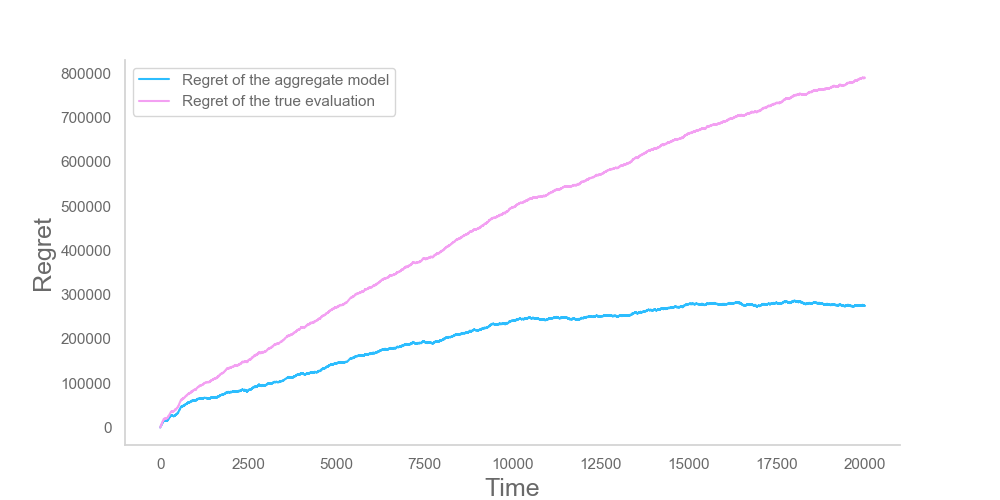
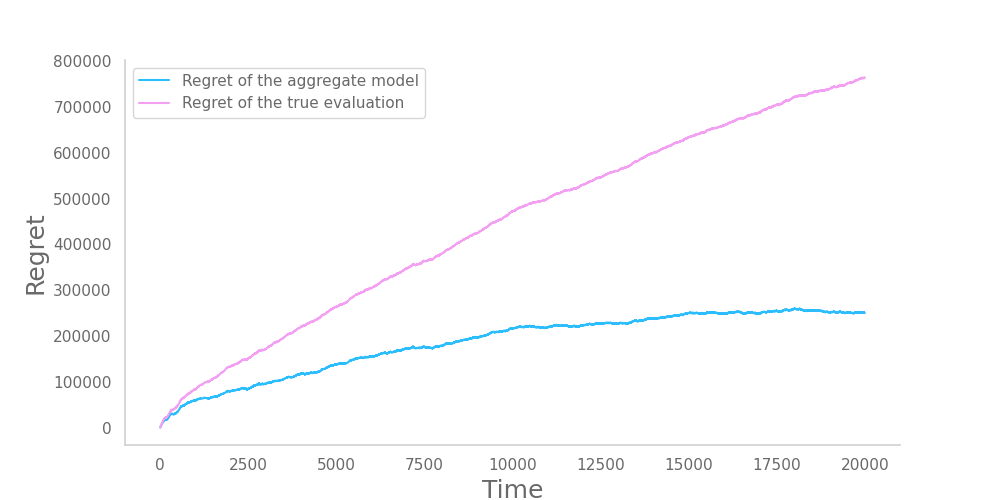
keep daily price part 5 new version

diff --git a/project/part_7/Testing_Env_7.py b/project/part_7/Testing_Env_7.py
@@ -24,13 +24,11 @@ def execute_experiment(args):
     index = args['index']
     env = args['environment']
     mch = args['multiclasshandler']
-    fix_arm = args['fix_arm']
 
     budget_allocator = BudgetAllocator(multi_class_handler=mch,
                                        n_arms_pricing=pricing_arms,
                                        n_arms_advertising=10,
-                                       enable_pricing=enable_pricing,
-                                       fix_arm=fix_arm)
+                                       enable_pricing=enable_pricing)
 
     current_day, done = env.reset()
 
@@ -94,36 +92,35 @@ if __name__ == '__main__':
     # plt.legend()
     # plt.show()
 
-    for arm_i in range(pricing_arms):
-        n_experiments = 10  # the number is small to do a raw test, otherwise set it to 1000
-        agnostic_regret_per_experiment = []  # collect all the regrets achieved
-        regret_per_experiment = []
-        args = [{'environment': copy.deepcopy(base_env), 'index': idx, 'multiclasshandler': mch, 'fix_arm': arm_i}
-                for idx in range(n_experiments)]  # create arguments for the experiment
+    n_experiments = 10  # the number is small to do a raw test, otherwise set it to 1000
+    agnostic_regret_per_experiment = []  # collect all the regrets achieved
+    regret_per_experiment = []
+    args = [{'environment': copy.deepcopy(base_env), 'index': idx, 'multiclasshandler': mch}
+            for idx in range(n_experiments)]  # create arguments for the experiment
 
-        with Pool(processes=1) as pool:  # multiprocessing.cpu_count()
-            results = pool.map(execute_experiment, args, chunksize=1)
+    with Pool(processes=1) as pool:  # multiprocessing.cpu_count()
+        results = pool.map(execute_experiment, args, chunksize=1)
 
-        for result in results:
-            agnostic_regret_per_experiment.append(result['agnostic_regret'])
-            regret_per_experiment.append(result['regret'])
+    for result in results:
+        agnostic_regret_per_experiment.append(result['agnostic_regret'])
+        regret_per_experiment.append(result['regret'])
 
-        title = ' & Pricing' if enable_pricing else ''
-        title = f'Testing_Env_7 - ARM CANDIDATE: {arm_i} - Advertising{title}'
-        plt.title(title, fontsize=20)
+    title = ' & Pricing' if enable_pricing else ''
+    title = f'Testing_Env_7 - Advertising{title}'
+    plt.title(title, fontsize=20)
 
-        for agnostic_regret in agnostic_regret_per_experiment:
-            plt.plot(np.cumsum(agnostic_regret), alpha=0.4, c='C2')
-        plt.plot(np.cumsum(np.mean(agnostic_regret_per_experiment, axis=0)),
-                 c='C2',
-                 label='Regret (Advertising <=!=> Pricing)')
+    for agnostic_regret in agnostic_regret_per_experiment:
+        plt.plot(np.cumsum(agnostic_regret), alpha=0.4, c='C2')
+    plt.plot(np.cumsum(np.mean(agnostic_regret_per_experiment, axis=0)),
+             c='C2',
+             label='Regret (Advertising <=!=> Pricing)')
 
-        for regret in regret_per_experiment:
-            plt.plot(np.cumsum(regret), alpha=0.4, c='C3')
-        plt.plot(np.cumsum(np.mean(regret_per_experiment, axis=0)), c='C3', label='Regret (Advertising <==> Pricing)')
-        plt.xlabel('Time')
-        plt.ylabel('Regret')
-        plt.legend()
+    for regret in regret_per_experiment:
+        plt.plot(np.cumsum(regret), alpha=0.4, c='C3')
+    plt.plot(np.cumsum(np.mean(regret_per_experiment, axis=0)), c='C3', label='Regret (Advertising <==> Pricing)')
+    plt.xlabel('Time')
+    plt.ylabel('Regret')
+    plt.legend()
 
-        plt.savefig('other_files/' + title + '.png')
-        plt.show()
+    plt.savefig('other_files/' + title + '.png')
+    plt.show()

diff --git a/project/part_5/Testing_Env_5.py b/project/part_5/Testing_Env_5.py
@@ -12,7 +12,7 @@ from project.dia_pckg.User import User
 from project.dia_pckg.plot_style.cb91visuals import *
 from project.part_4.MultiClassHandler import MultiClassHandler
 from project.part_4.SWTS_Learner import SWTS_Learner
-from project.part_5.CampaignScheduler_5 import CampaignScheduler_5
+from project.part_5.CampaignScheduler import CampaignScheduler
 from project.part_5.Env_5 import Env_5
 
 np.random.seed(0)
@@ -35,38 +35,13 @@ def execute_experiment(args):
         if new_week:  # in this case we can generate new contexts and new learners
             campaign_scheduler.context_update()
 
-        if keep_daily_price:
-            user_elegant = User(class_name='elegant')
-            user_casual = User(class_name='casual')
-            user_sport = User(class_name='sports')
+        user = User(random=True)
 
-            if new_day:
-                pulled_arm_elegant = campaign_scheduler.pull_arm_from_user(user_elegant)
-                pulled_arm_casual = campaign_scheduler.pull_arm_from_user(user_casual)
-                pulled_arm_sport = campaign_scheduler.pull_arm_from_user(user_sport)
+        pulled_arm = campaign_scheduler.pull_arm_from_user(user, keep_daily_price, new_day)
 
-            new_week, reward, current_date, new_day, done, opt_revenue = env.round(pulled_arm_elegant, user_elegant)
-            campaign_scheduler.update(user_elegant, pulled_arm_elegant, reward)
-            optimal_revenues = np.append(optimal_revenues, opt_revenue)
-
-            new_week, reward, current_date, new_day, done, opt_revenue = env.round(pulled_arm_casual, user_casual)
-            campaign_scheduler.update(user_casual, pulled_arm_casual, reward)
-            optimal_revenues = np.append(optimal_revenues, opt_revenue)
-
-            new_week, reward, current_date, new_day, done, opt_revenue = env.round(pulled_arm_sport, user_sport)
-            campaign_scheduler.update(user_sport, pulled_arm_sport, reward)
-            optimal_revenues = np.append(optimal_revenues, opt_revenue)
-
-        else:
-            user = User(random=True)
-
-            pulled_arm = campaign_scheduler.pull_arm_from_user(user)
-
-            new_week, reward, current_date, new_day, done, opt_revenue = env.round(pulled_arm, user)
-            campaign_scheduler.update(user, pulled_arm, reward)
-            optimal_revenues = np.append(optimal_revenues, opt_revenue)
-
-        
+        new_week, reward, current_date, new_day, done, opt_revenue = env.round(pulled_arm, user)
+        campaign_scheduler.update(user, pulled_arm, reward)
+        optimal_revenues = np.append(optimal_revenues, opt_revenue)
 
     print(str(index) + ' has ended')
 
@@ -96,7 +71,7 @@ if __name__ == '__main__':
                 multi_class_handler=mch,
                 n_arms=n_arms)
 
-    campaign_scheduler = CampaignScheduler_5(mch, SWTS_Learner, n_arms, env.arm_prices['prices'], 5000)
+    campaign_scheduler = CampaignScheduler(mch, SWTS_Learner, n_arms, env.arm_prices['prices'], 5000)
 
     for class_ in mch.classes:
         plt.plot(class_.conv_rates['phase_0']['prices'],
@@ -151,5 +126,5 @@ if __name__ == '__main__':
     plt.xlabel('Time')
     plt.ylabel('Regret')
     plt.legend()
-    plt.savefig(f'project/part_5/other_files/testing_part5_narms{n_arms}_keepdailyprice{keep_daily_price}.png')
+    plt.savefig(f'other_files/testing_part5_narms{n_arms}_keepdailyprice{keep_daily_price}.png')
     plt.show()

diff --git a/project/part_5/CampaignScheduler.py b/project/part_5/CampaignScheduler.py
@@ -4,7 +4,7 @@ from project.dia_pckg.Config import classes_config
 from project.part_5.ContextGenerator import ContextGenerator
 
 
-class CampaignScheduler_5(ContextGenerator):
+class CampaignScheduler(ContextGenerator):
 
     def __init__(self, multi_class_handler, mab_algorithm, *mab_args):
         super().__init__(multi_class_handler, mab_algorithm, mab_args)
@@ -34,10 +34,10 @@ class CampaignScheduler_5(ContextGenerator):
             Updating the context
         :return: None
         """
-        self.week_contexts = self.get_weekly_contexts_v2(last_contexts=self.week_contexts,
-                                                         rewards_counters=self.counters)
+        self.week_contexts = self.get_weekly_contexts(last_contexts=self.week_contexts,
+                                                      rewards_counters=self.counters)
 
-    def pull_arm_from_user(self, user):
+    def pull_arm_from_user(self, user, keep_daily_price, new_day):
         """
             Return the pulled arm from the context in which the user belongs
         :param user: User object
@@ -45,7 +45,7 @@ class CampaignScheduler_5(ContextGenerator):
         """
         for context_name, context_obj in self.week_contexts.items():
             if context_obj.is_user_belonging(user):
-                return context_obj.learner.pull_arm_revenue()
+                return context_obj.pull_arm(keep_daily_price, new_day)
 
     def update_rewards_counters(self, reward, user):
         """

diff --git a/project/part_4/Testing_Env_4.py b/project/part_4/Testing_Env_4.py
@@ -35,12 +35,10 @@ def execute_experiment(args):
         if keep_daily_price:
             if new_day:
                 pulled_arm = ts_learner.pull_arm_revenue()  # optimize by revenue
-                
         else:
             pulled_arm = ts_learner.pull_arm_revenue()  # optimize by revenue
 
         reward, current_date, new_day, done, opt_revenue = env.round(pulled_arm, user)
-        
         ts_learner.update(pulled_arm, reward)
         optimal_revenues = np.append(optimal_revenues, opt_revenue)
 
@@ -87,7 +85,7 @@ if __name__ == '__main__':
     plt.xlabel('Price')
     plt.ylabel('Conversion Rate')
     plt.legend()
-    plt.savefig('project/part_4/other_files/testing_part4_demandcurves.png')
+    plt.savefig('other_files/testing_part4_demandcurves.png')
     plt.show()
 
     n_experiments = 10  # the number is small to do a raw test, otherwise set it to 1000
@@ -120,5 +118,5 @@ if __name__ == '__main__':
     plt.xlabel('Time')
     plt.ylabel('Regret')
     plt.legend()
-    plt.savefig(f'project/part_4/other_files/testing_part4_narms{n_arms}_keepdailyprice{keep_daily_price}.png')
+    plt.savefig(f'other_files/testing_part4_narms{n_arms}_keepdailyprice{keep_daily_price}.png')
     plt.show()

diff --git a/project/part_5/Context.py b/project/part_5/Context.py
@@ -1,7 +1,7 @@
 import copy
 
 
-class Context():
+class Context:
 
     def __init__(self, features, mab_algorithm=None, mab_args=None):
         # general MAB algorithm to perform multiple tests, with different configurations
@@ -12,6 +12,16 @@ class Context():
             self.learner = self.MAB(*self.MAB_args)
 
         self.features = features
+
+        self.last_pulled = None
+
+    def pull_arm(self, keep_daily_price=False, new_day=True):
+        if keep_daily_price:
+            if new_day or self.last_pulled is None:
+                self.last_pulled = self.learner.pull_arm_revenue()
+            return self.last_pulled
+        else:
+            return self.learner.pull_arm_revenue()
 
     def is_user_belonging(self, user):
         """

diff --git a/project/part_6/SubCampaignHandler.py b/project/part_6/SubCampaignHandler.py
@@ -29,7 +29,8 @@ class SubCampaignHandler:
 
         self.n_arms_advertising = n_arms_advertising
 
-        self.pricing = Pricing(class_name=class_name, multi_class_handler=multi_class_handler, n_arms=n_arms_pricing, keep_daily_price=keep_daily_price)
+        self.pricing = Pricing(class_name=class_name, multi_class_handler=multi_class_handler, n_arms=n_arms_pricing,
+                               keep_daily_price=keep_daily_price)
         self.advertising = Advertising(bidding_environment=bidding_environment,
                                        n_arms=self.n_arms_advertising,
                                        subcampaign_idx=subcampaign_idx)

diff --git a/project/part_6/Testing_Env_6.py b/project/part_6/Testing_Env_6.py
@@ -124,9 +124,10 @@ if __name__ == '__main__':
 
     plt.xlabel('Time')
     plt.ylabel('Regret')
-    #plt.ylim([0, 800e3])
+    # plt.ylim([0, 800e3])
     plt.legend()
 
     print('\n\nFINAL LOSS:', np.mean(final_loss_per_experiment))
-    plt.savefig(f'project/part_6/other_files/testing_part6_enablePricing{enable_pricing} _keepdailyprice{keep_daily_price}.png')
+    plt.savefig(
+        f'project/part_6/other_files/testing_part6_enablePricing{enable_pricing} _keepdailyprice{keep_daily_price}.png')
     plt.show()

diff --git a/project/part_5/ContextGenerator.py b/project/part_5/ContextGenerator.py
@@ -17,7 +17,7 @@ class ContextGenerator:
 
         self.report = ''
 
-    def get_weekly_contexts_v2(self, last_contexts, rewards_counters, delta=0.9):
+    def get_weekly_contexts(self, last_contexts, rewards_counters, delta=0.9):
         self.report = 'Generation context '
 
         if len(last_contexts) == 0:

diff --git a/project/part_6/Pricing.py b/project/part_6/Pricing.py
@@ -46,8 +46,7 @@ class Pricing:
                     multi_class_handler=self.mch,
                     n_arms=self.n_arms)
         _, done = env.reset()
-        new_day=True
-
+        new_day = True
         while not done:
             user = User(class_name=self.class_name)
 
